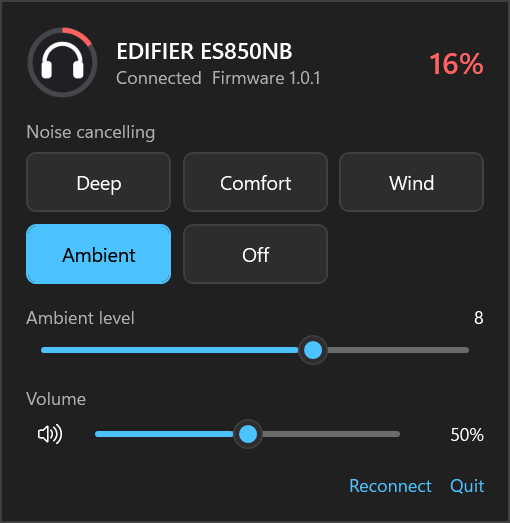
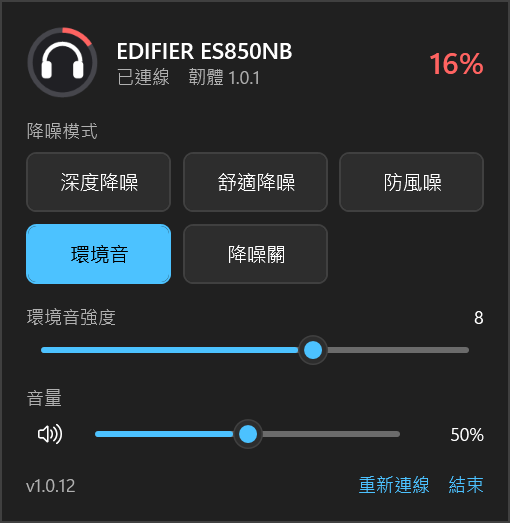
docs: 審核後同步文件與程式；README 更新敘述與面板圖（新增 MP330）
- tool-design：0xB2、版本檢查標為未實作、音量端點、保持開機為脈衝、MP330 省電已驗證、C# 支援 BLE-only、測試數
- findings：節流已在服務層、最後更新日、測試數；handoff 不寫死測試數
- README：連線備援、實際連上的裝置、MP330 驗證日期、測試數；面板圖改繁中並新增 MP330 面板圖（示範資料）

diff --git a/docs/findings.md b/docs/findings.md
@@ -1,10 +1,10 @@
 # 研究結論總整理
 
-最後更新：2026-10-31（加入 MP330 部分實機驗證與省電模式）。本文件彙整截至目前所有分析結論，細節請看各專題文件（見最後的索引）。
+最後更新：2026-11-01（MP330 關閉省電模式實測有效；程式碼審核後同步文件）。本文件彙整截至目前所有分析結論，細節請看各專題文件（見最後的索引）。
 
 ## 一句話現況
 
-已從官方 App（ConneX 1.0.31）還原出 ES850NB 與 MP330 的藍牙連線方式、封包格式、指令碼與主要指令的 payload，並寫成有 315 個單元測試的 Python 函式庫與命令列工具（含 BLE 與 SPP 兩種傳輸層），以及有 144 個測試的 C#／WPF 托盤。**ES850NB 已完成實機驗證**（封包格式、SPP 與 BLE 連線、全部只讀查詢、ANC 五種模式、EQ 預設切換與自訂 EQ 寫入，見第 0 節）；**MP330 已部分實機驗證**（2026-10-31：BLE 連線、名稱／電量／EQ 查詢、省電模式 `0xB1`／`0xB2` 的讀取與設定，見第 0 節與 [protocol-commands.md](protocol-commands.md)），其餘結論仍是靜態分析（讀反編譯碼）。
+已從官方 App（ConneX 1.0.31）還原出 ES850NB 與 MP330 的藍牙連線方式、封包格式、指令碼與主要指令的 payload，並寫成有 319 個單元測試的 Python 函式庫與命令列工具（含 BLE 與 SPP 兩種傳輸層），以及有 152 個測試的 C#／WPF 托盤。**ES850NB 已完成實機驗證**（封包格式、SPP 與 BLE 連線、全部只讀查詢、ANC 五種模式、EQ 預設切換與自訂 EQ 寫入，見第 0 節）；**MP330 已部分實機驗證**（2026-10-31：BLE 連線、名稱／電量／EQ 查詢、省電模式 `0xB1`／`0xB2` 的讀取與設定，見第 0 節與 [protocol-commands.md](protocol-commands.md)），其餘結論仍是靜態分析（讀反編譯碼）。
 
 ## 可信度怎麼讀
 
@@ -15,7 +15,7 @@
 | 推測 | 由程式碼推論，文件中會標「推測」 |
 | 未知 | 目前查不到 |
 
-「已驗證」包含實機驗證：標示「實機」者是在 ES850NB 上實際送出並讀回的結果（2026-10-27）。MP330 的實機結果（2026-10-31）：經典藍牙已連著電腦時不廣播，改直連 BLE 位址（經典位址第三個 byte 的低 4 bit 清零，B3→B0）可連上，service 48094c01、version 2、**不加密**；NAME/EQ/CUSTOM_EQ 查詢有回應，ANC/LDAC/LHDC/HD 編碼查詢無回應，版本 1.0.1，電量查詢有回應。省電模式：`0xB1` 查詢回應「開」，`0xB2` 設為關後讀回「關」且重新連線後仍為關；**這個設定是否就是 MP330 閒置自動關機的原因、關閉後是否不再關機，尚未驗證**（官方 App 的說明文字是這樣寫，這是推論）。其餘 MP330 結論仍是推測。
+「已驗證」包含實機驗證：標示「實機」者是在 ES850NB 上實際送出並讀回的結果（2026-10-27）。MP330 的實機結果（2026-10-31）：經典藍牙已連著電腦時不廣播，改直連 BLE 位址（經典位址第三個 byte 的低 4 bit 清零，B3→B0）可連上，service 48094c01、version 2、**不加密**；NAME/EQ/CUSTOM_EQ 查詢有回應，ANC/LDAC/LHDC/HD 編碼查詢無回應，版本 1.0.1，電量查詢有回應。省電模式：`0xB1` 查詢回應「開」，`0xB2` 設為關後讀回「關」且重新連線後仍為關；**關閉後 MP330 放置超過原本的待機時間仍未關機（使用者實測，2026-11-01），確認省電模式就是閒置自動關機的原因**。其餘 MP330 結論仍是推測。
 
 ## 0. ES850NB 實機驗證結果（2026-10-27）
 
@@ -35,7 +35,7 @@
 - 設定回應 payload 為 `[group, mode, 06]`；mode 4 的查詢回應多一個尾端 `06`（推測為環境音程度預設值，未驗證）。
 - 設定成功後裝置會主動推送一則 `0xCC`（內容同新狀態）。
 - 第三個 byte `DB` 實機驗證：mode 4 帶 db=1、3、9、12 皆被接受並讀回（`10 04 <db>`）；不帶時預設 6。非環境音模式不回報 db。
-- **兩次設定指令間隔限制**：自上次回應起算 ≤ 1.0 秒，第二次被靜默忽略（無回應、狀態不變）；≥ 1.25 秒才成功。門檻在 1.0–1.25 秒之間。查詢不受影響（設定後 0.3 秒查詢正常）。Client 目前沒有節流或重送。
+- **兩次設定指令間隔限制**：自上次回應起算 ≤ 1.0 秒，第二次被靜默忽略（無回應、狀態不變）；≥ 1.25 秒才成功。門檻在 1.0–1.25 秒之間。查詢不受影響（設定後 0.3 秒查詢正常）。服務層（`DeviceService`，兩版）已加入 ≥ 2 秒節流與逾時重送一次；底層 `Client` 本身不節流。
 
 **EQ（實機已驗證，除另標明）**
 - `0xD5` 只回 1 byte（預設編號），沒有桌面校正欄位。`0xC4` 只送 `[rr]`：rr=1–6 全被接受並讀回，**裝置不檢查範圍**，所以預設總數與各編號名稱未知；切換預設不改變自訂 EQ 內容。
@@ -178,7 +178,7 @@ src/edifier_reverse/
   tray.py        托盤小工具（pystray 加面板），選用相依 tray
 （C# 版在 src/EdifierTray，見 tool-design.md 第 6 節）
 scripts/         解密產品表、產生常數表、抽取 ANC / D8 表
-tests/           315 個單元測試（C# 的 144 個在 tests/EdifierTray.Tests）（離線，不需藍牙）
+tests/           319 個單元測試（C# 的 152 個在 tests/EdifierTray.Tests）（離線，不需藍牙）
 ```
 
 測試品質：封包測試的向量是手算的位元組；對 `packet.py`、`reassembly.py`、`spp.py`、`ble.py`、`sim.py` 做過破壞性驗證（改常數、關檢查、顛倒順序），各次都有測試失敗。SPP 傳輸層用真的 socket（`socketpair`）對模擬裝置測過，但沒有碰過真正的藍牙。
@@ -188,9 +188,9 @@ tests/           315 個單元測試（C# 的 144 個在 tests/EdifierTray.Tests
 | 項目 | 風險／影響 |
 |------|------------|
 | MP330 只部分驗證 | 連線、查詢、省電模式已驗證；EQ 寫入、輸入來源等其他功能未驗證，結論維持推測 |
-| 防自動關機是否有效 | 關閉省電模式後是否仍閒置自動關機，要實際放置觀察；「保持開機」（送聽不到的訊號）對韌體是否算有音訊也未驗證 |
+| 防自動關機是否有效 | 關閉省電模式已實測有效（MP330，2026-11-01）；「保持開機」（送聽不到的訊號）對韌體是否算有音訊也未驗證 |
 | SPP 連線的前提 | 裝置須先與電腦配對並連上 A2DP（ES850NB 實機如此做成功；未配對的情形未測） |
-| 設定指令間隔限制 | 已知 ANC 約需 ≥ 1.25 秒；Client 尚未節流或重送，EQ 等其他設定指令是否同一限制未專門測 |
+| 設定指令間隔限制 | 已知 ANC 約需 ≥ 1.25 秒；服務層已節流（≥ 2 秒）與重送。EQ、省電模式等其他設定指令沒經節流，是否同一限制未專門測 |
 | `0xF2` 無回應 | ES850NB 不回應，原因未明（可能不支援） |
 | 自訂 EQ 殘留 4 bytes 時間戳 | ES850NB 的 `0x43` 回應由 26 變 30 bytes，無法還原；官方 App 是否顯示異常未確認 |
 | 重組的已知弱點 | 後續分片以 `0xBB`/`0xCC` 開頭會被誤判 |
@@ -201,7 +201,7 @@ tests/           315 個單元測試（C# 的 144 個在 tests/EdifierTray.Tests
 
 ## 10. 下一步（依優先序）
 
-1. Client 加入設定指令的最小間隔（≥ 2 秒）或逾時重送。
+1. ~~Client 加入設定指令的最小間隔（≥ 2 秒）或逾時重送~~（已在服務層完成）。
 2. 找出各預設編號名稱與 gain 的實際意義（需聽感或官方 App 對照）；中文名稱在 28 bytes 邊界截斷的行為。
 3. 在 Android 開 HCI snoop log 對照官方 App 的實際封包。
 

diff --git a/DEVLOG.md b/DEVLOG.md
@@ -919,3 +919,59 @@
 - README.md：驗證表加 MP330 欄、特色加階層選單／輸出裝置／防自動關機並註明 Python 版托盤尚無、命令列表加 power-save、測試數量 315／144、Roadmap 更新；docs/images/tray-menu-dark.png 換成新的階層選單（示範資料，不含真實位址）
 - docs/findings.md（最後更新日、單元測試數、MP330 實機結果與風險列）、docs/tool-design.md（新增第 7 節）、docs/protocol-uuids.md（MP330 BLE 已驗證）、docs/protocol-d8.md（MP330 實機回應）、docs/handoff-other-pc.md（註記）、CLAUDE.md（MP330 現況、C# 領先 Python）
 - push 前掃描發現：測試裡有真實裝置的藍牙位址（MP330、ES850NB）→ 全部改成假位址（AA:BB:B3:… → AA:BB:B0:…，保留 B3→B0 的推導關係）；重跑兩邊測試確認
+
+## 2026-11-01
+
+### 修改內容（Changes）
+- 使用者回報 MP330 關閉省電模式後放到現在都沒關機 → 把「關閉後是否不再自動關機」從未驗證改為已驗證
+- docs/findings.md、docs/protocol-commands.md、README.md（驗證表與 Roadmap 勾選）同步更新
+
+### 問題與解法（Problems & Solutions）
+- 無；放置時間為使用者口述，未精確記錄時數
+
+### 待辦事項（TODO）
+- 「保持開機」（方案 B，送聽不到的訊號）對無省電模式的機種是否有效仍未驗證
+- Python 版托盤補階層選單、輸出裝置切換、防自動關機；未 commit、未 push
+
+### MP330 還原省電模式、開始方案 B 實測（同日追加）
+- 使用者要求取消 MP330 的不關機並改測方案 B：關閉執行中的 EdifierTray（取得同意）→ power-save --model MP330 --set on --yes，讀回確認「省電模式：開」（已還原）
+- %APPDATA%\EdifierTray\settings.json：MP330 的 keepAwake 設為 true（使用者真實設定，測完可改回 false 或在托盤關掉），重開托盤 1.0.11；MP330 端點音量表讀到 0.003，確認訊號有送出
+- 原因：托盤在 MP330（有省電模式）只顯示方案 A，點不到 B，所以直接改設定檔觸發
+
+### 待辦事項（TODO，追加）
+- 觀察：省電模式開＋保持開機（方案 B）放置超過待機時間（15～30 分鐘）MP330 是否仍關機；結果決定 B 是否有效
+
+### 完整程式碼審核與修正（同日追加）
+- 修正（兩版）：沒選過裝置時，記名稱／保持開機／備援名稱寫到清單第一台而非實際連上的那台 → 新增 `DeviceDirectory.Active`／`Controlled`（Python `active`／`controlled()`），TrayHost.cs、tray.py 改用它
+- 統一兩版：Python `Settings.remember` 補更新機種；C# 連線補上「SPP 失敗退回 BLE」（ES850NB 實機兩條都可用，對齊 Python），兩版都不對目錄外機種試 BLE；C# 電量空回應改為 null（原為 0%，對齊 Python）
+- DeviceService.cs：省電模式背景查詢與手動檢查改走 `_setLock`（同指令碼同時等待會拋 InvalidOperationException）；修正錯位與重複的註解；說明補上 0xB2
+- KeepAwake.cs：`Pulse` 擋下 burst ≥ every（負的等待會讓背景工作無聲結束）；類別說明改成脈衝實際行為
+- Cli.cs：`--cold-toggle`、`--live-ui` 改用元素渲染，移除 CopyFromScreen 截圖（專案規則）；補齊模式說明
+- 過時說明：packet／reassembly／requests／responses／spp／d8／eq／volume／menu／cli.py、VolumeControl.cs、Settings.cs、TrayMenuModel.cs
+- 文件：tool-design.md（0xB2、版本檢查標為未實作、音量端點、保持開機為脈衝、MP330 省電已驗證、C# 支援 BLE-only、測試數）、findings.md（節流已在服務層、最後更新日、測試數）、README.md（保持開機描述、測試數）、handoff-other-pc.md（測試數不寫死）
+- 測試：Python 319（+4）、C# 152（+5，含未 commit 的 Pulse 測試 3 個）；兩邊全過
+
+### 問題與解法（同日追加）
+- pytest 偶發崩潰（約 1/7，0x80000003，發生在 asyncio executor 執行緒的垃圾回收中）→ 判斷是 Tk 物件在非主執行緒被回收；conftest 的 tk_root 收尾時在主執行緒 `gc.collect()`。修正後連跑 12 次 0 次崩潰（樣本不大，未完全證實）
+- 連線備援方向：原想讓 Python 對齊 C#（不退回 BLE），查 findings 發現 ES850NB BLE 已實機可用，改為 C# 對齊 Python
+
+### 待辦事項（同日追加）
+- C# 的「SPP 失敗退回 BLE」未實機驗證（只有離線測試）；ES850NB 關機時重連一輪會多等 BLE 逾時（最多約 15 秒）
+- commands.py 檔頭「靜態分析，尚未實機驗證」由 gen_commands.py 產生，未改
+- docs/ldac-and-tool-plan.md 是 2026-10-27 的評估紀錄，內文的 173 個測試保留原樣
+- 未 commit、未 push
+
+### 版本 1.0.12（同日追加）
+- pyproject.toml、uv.lock：1.0.11 → 1.0.12（C#、安裝檔、release.yml 都從 pyproject 讀，`uv lock --check` 通過）；重跑測試 Python 319、C# 152 全過
+- 建置 %TEMP%\EdifierTray-installer\EdifierTray-Setup-1.0.12.exe（63.3 MB）
+- README：辨識與連線列補「SPP 連不上自動改走 BLE（C# 版備援只有離線測試）」、自動挑裝置補「名稱與防自動關機記在實際連上的那台」、MP330 驗證日期改 10-31～11-01；新增 MP330 面板圖與圖說
+- docs/images：tray-panel-dark／light 重產（原為英文介面、沒有版本號，改成繁中、與 README 和選單圖一致），新增 tray-panel-mp330-dark.png（示範資料，`--demo-shot … zh-TW:mp330`）；tray-menu-dark.png 重產後與原圖逐位元組相同，未換
+- 安裝：經使用者同意關閉執行中的測試版托盤（%TEMP%\EdifierTray-pulse-test，1.0.11，方案 B 觀察因此中斷、計時重來）→ 靜默安裝到 %LOCALAPPDATA%\EdifierTray（保留登入時啟動）→ 啟動 1.0.12，程序確認在執行
+
+### 問題與解法（同日追加）
+- 安裝檔建置失敗（CS0579 屬性重複）：先前跑 `dotnet test` 沒設 EDIFIER_BUILD_ROOT，在 src/EdifierTray 產生 obj/bin，被外部建置根目錄的 publish 一併編入 → 刪掉這兩個（gitignore 內、當天產生的建置產物）後重建成功
+
+### 待辦事項（同日追加）
+- 新版托盤連上裝置、面板顯示是否正常：只確認程序在跑，未看畫面
+- 方案 B 觀察重新計時：MP330 省電模式開 + keepAwake，放置超過 15～30 分鐘看是否仍關機
+- 程式內的版本字串帶的 commit 是 6210323（工作目錄未 commit 的改動也已包含）；未 commit、未 push、未推 v1.0.12 標籤

diff --git a/docs/handoff-other-pc.md b/docs/handoff-other-pc.md
@@ -29,7 +29,7 @@ uv run pytest
 uv run edifier-reverse sim --chunk 5
 ```
 
-預期：173 個測試全過；`sim` 印出 12 個查詢，其中 `0xF2`、`0xD5`、`0x43` 為「（無回應）」是正常的（模擬裝置沒有實作它們）；LDAC／LHDC／高清編碼三個查詢模擬裝置有回應，數值是模擬用的任意值。
+預期：全部測試通過（數量見 README 的「測試」一節）；`sim` 印出 12 個查詢，其中 `0xF2`、`0xD5`、`0x43` 為「（無回應）」是正常的（模擬裝置沒有實作它們）；LDAC／LHDC／高清編碼三個查詢模擬裝置有回應，數值是模擬用的任意值。
 
 再用真的 socket 對跑一次 SPP 傳輸層（不需要藍牙，只驗證 Python 的 socket／執行緒在那台電腦上運作正常）：
 
